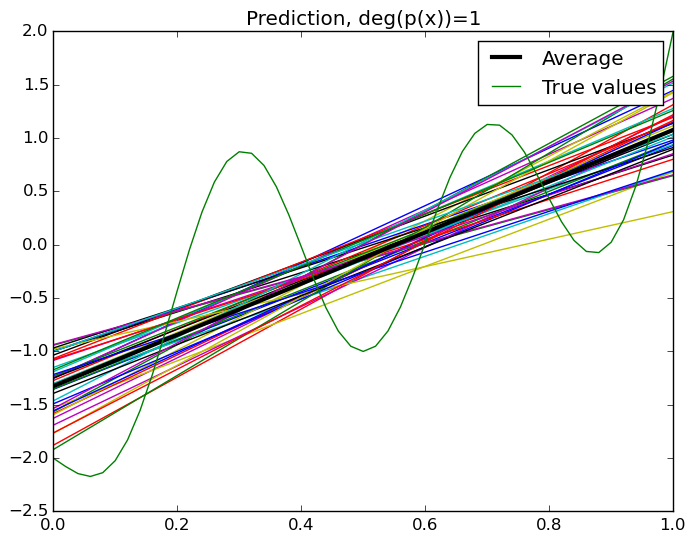
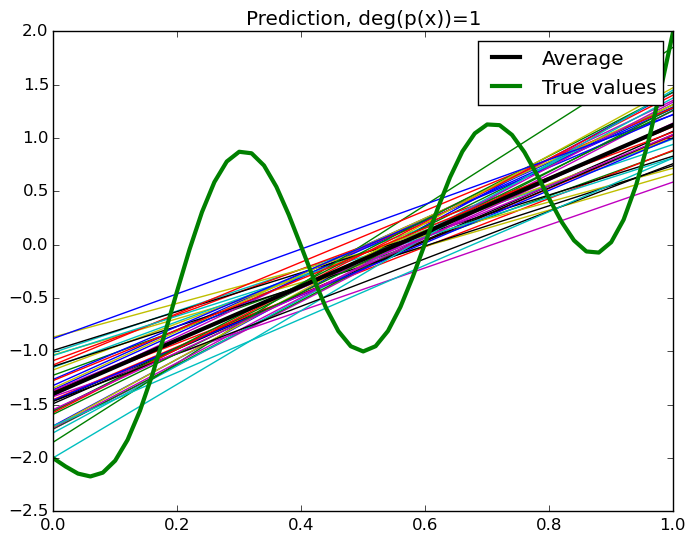
Minor update, just saved files

diff --git a/E5/5_1.py b/E5/5_1.py
@@ -46,7 +46,7 @@ p_14_var = np.mean(np.mean((y_hat_14 - y_hat_14_avg)**2))
 plt.figure(1)
 plt.plot(x, y_hat_1.T)
 plt.plot(x, y_hat_1_avg , label='Average', c='black',linewidth=3)
-plt.plot(x, f(x), c='g', label='True values')
+plt.plot(x, f(x), c='g', label='True values', linewidth=3)
 plt.legend()
 plt.title('Prediction, deg(p(x))=1')
 pl.savefig('Prediction_d=1.png', bbox_inches='tight')
@@ -54,7 +54,7 @@ pl.savefig('Prediction_d=1.png', bbox_inches='tight')
 plt.figure(2)
 plt.plot(x, y_hat_5.T)
 plt.plot(x, y_hat_5_avg , label='Average', c='black',linewidth=3)
-plt.plot(x, f(x), c='g', label='True values')
+plt.plot(x, f(x), c='g', label='True values', linewidth=3)
 plt.legend()
 plt.title('Prediction, deg(p(x))=5')
 pl.savefig('Prediction_d=5.png', bbox_inches='tight')
@@ -62,7 +62,7 @@ pl.savefig('Prediction_d=5.png', bbox_inches='tight')
 plt.figure(3)
 plt.plot(x, y_hat_9.T)
 plt.plot(x, y_hat_9_avg , label='Average', c='black',linewidth=3)
-plt.plot(x, f(x), c='g', label='True values')
+plt.plot(x, f(x), c='g', label='True values', linewidth=3)
 plt.legend()
 plt.title('Prediction, deg(p(x))=9')
 pl.savefig('Prediction_d=9.png', bbox_inches='tight')
@@ -70,17 +70,18 @@ pl.savefig('Prediction_d=9.png', bbox_inches='tight')
 plt.figure(4)
 plt.plot(x, y_hat_14.T)
 plt.plot(x, y_hat_14_avg , label='Average', c='black',linewidth=3)
-plt.plot(x, f(x), c='g', label='True values')
+plt.plot(x, f(x), c='g', label='True values', linewidth=3)
 plt.legend()
 plt.title('Prediction, deg(p(x))=14')
 pl.savefig('Prediction_d=14.png', bbox_inches='tight')
 
 fig, ax = plt.subplots()
 width = 0.35
-bias = ax.bar(np.arange(4), (p_1_bias, p_5_bias, p_9_bias, p_14_bias), width, color='r', label='Biases')
-variances = ax.bar(np.arange(4)+width, (p_1_var, p_5_var, p_9_var, p_14_var), width, color='b', label='Variance')
+bias = ax.bar(np.arange(4), (p_1_bias, p_5_bias, p_9_bias, p_14_bias), width, color='r')
+variances = ax.bar(np.arange(4)+width, (p_1_var, p_5_var, p_9_var, p_14_var), width, color='b')
+bias_and_variances = ax.bar(np.arange(4)+2*width, (p_1_bias+p_1_var, p_5_bias+p_5_var, p_9_bias+p_9_var, p_14_bias+p_14_var), width, color='g')
 plt.title('Bias and variance for the models')
-ax.set_xticks(np.arange(4) + width)
+ax.set_xticks(np.arange(4)+2*width)
 ax.set_xticklabels(('deg(p)=1', 'deg(p)=5', 'deg(p)=9', 'deg(p)=14'))
-ax.legend((bias, variances), ('Biases', 'Variances'))
+ax.legend((bias, variances, bias_and_variances), ('Biases', 'Variances', 'Biases+Variances'))
 pl.savefig('Bias_var.png')
